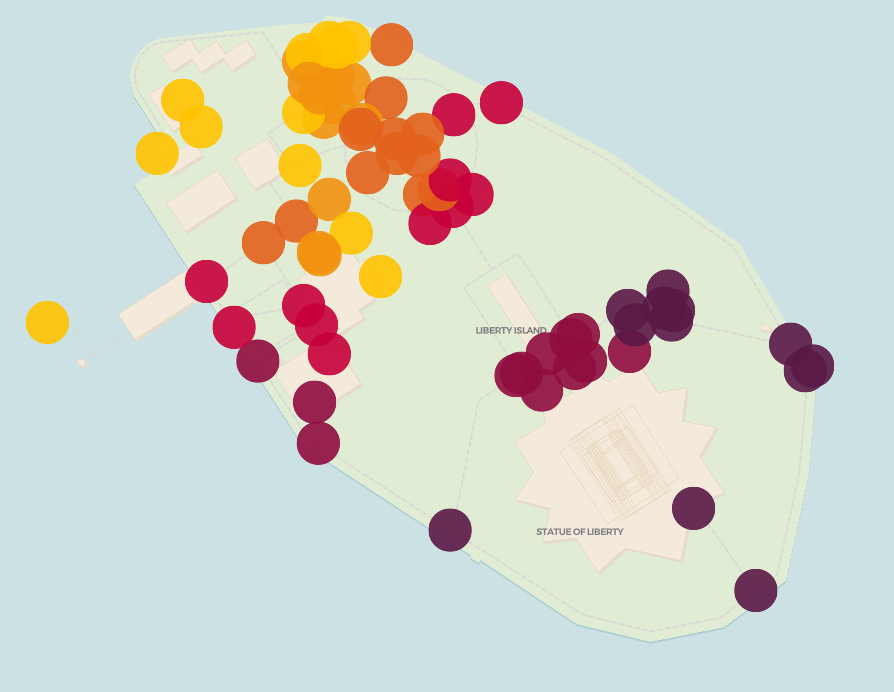
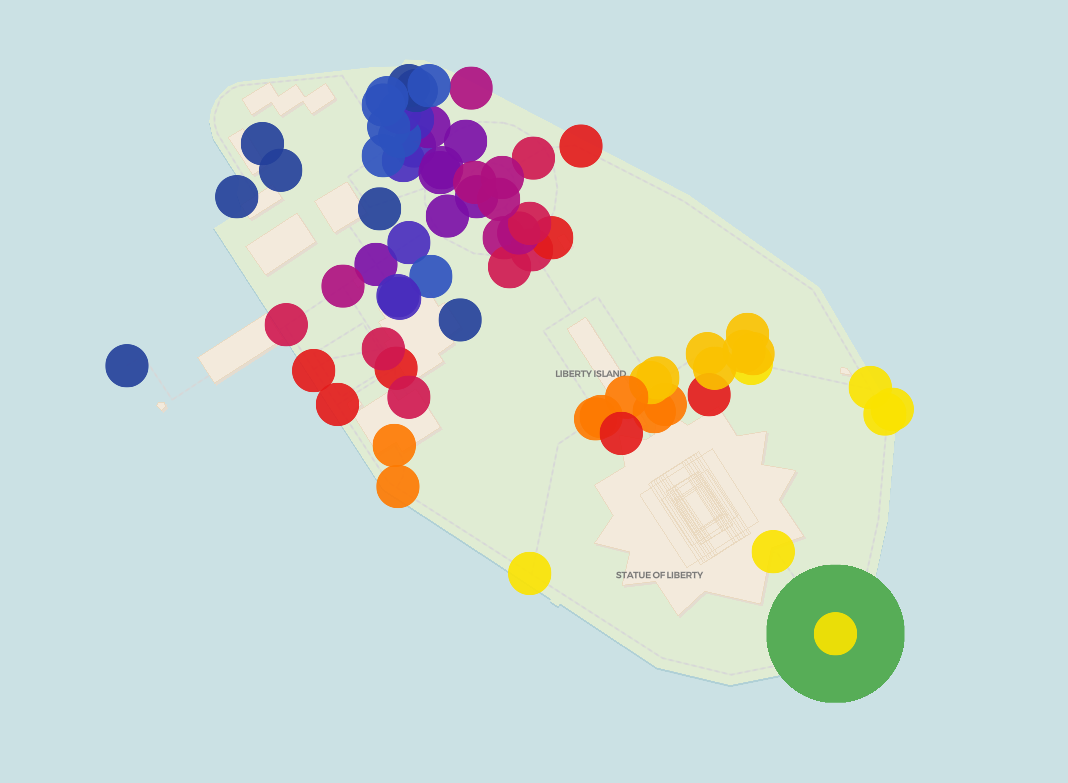
fix routing doc

diff --git a/app/content/spatial-extension-bq/guides/routing.md b/app/content/spatial-extension-bq/guides/routing.md
@@ -9,7 +9,8 @@ Carefull this query scan a lot of data. You may skip this query by creating dire
 
 
 ```sql
-CREATE TABLE mydataset.liberty_island_linestrings AS
+CREATE TABLE
+  mydataset.liberty_island_linestrings AS
 SELECT
   geometry,
   all_tags
@@ -21,8 +22,7 @@ WHERE
   key = 'highway'
   AND ST_INTERSECTS(geometry,
     --NY Liberty Island Bounding Box:
-    ST_GEOGFROMGEOJSON("""{"type": "Polygon","coordinates": [[[-74.049031, 40.687619], [-74.041713, 40.687619], [-74.041713, 40.692158], [-74.049031, 40.692158], [-74.049031, 40.687619] ]]}""") )
-``` 
+    ST_GEOGFROMGEOJSON("""{"type": "Polygon","coordinates": [[[-74.049031, 40.687619], [-74.041713, 40.687619], [-74.041713, 40.692158], [-74.049031, 40.692158], [-74.049031, 40.687619] ]]}""") )``` 
 
 #### Creating the network from linestrings
 
@@ -37,17 +37,19 @@ CALL `bqcarto.routing.GENERATE_NETWORK_TABLE`('mydataset.liberty_island_linestri
 Or you can go the hard way using a function.
 
 ```sql
-    CREATE OR REPLACE TABLE `mydataset.liberty_island_network`
-      AS
-        WITH T as(
-            SELECT
-              `bqcarto.routing.GENERATE_NETWORK`(ARRAY_AGG(geometry)) generate_network
-            FROM
-              `mydataset.my_test_linestrings`
-                  )
-      SELECT myunnest.*
-      FROM T,
-      unnest(generate_network) myunnest
+CREATE OR REPLACE TABLE
+  `mydataset.liberty_island_network` AS
+WITH
+  T AS(
+  SELECT
+    `bqcarto.routing.GENERATE_NETWORK`(ARRAY_AGG(geometry)) generate_network
+  FROM
+    `mydataset.my_test_linestrings` )
+SELECT
+  myunnest.*
+FROM
+  T,
+  UNNEST(generate_network) myunnest
 ```
 
 #### Visualising the network
@@ -60,7 +62,6 @@ SELECT
 UNION ALL
 SELECT
     ST_MAKELINE(src_geo, dest_geo) line, 1 compacted FROM `mydataset.liberty_island_network`
-);
 ```
 
 
@@ -74,11 +75,10 @@ Again we have created a procedure for that:
 
 ```sql
 CALL
-  `bqcarto.routing.FIND_SHORTEST_PATH_FROM_NETWORK_TABLE`(
-      "mydataset.liberty_island_network","mydataset.my_shortest_path",
-      "ST_geogpoint(-74.04665, 40.68983)",
-      "ST_geogpoint(-74.0438, 40.68874)"
-      )
+  `bqcarto.routing.FIND_SHORTEST_PATH_FROM_NETWORK_TABLE`( "mydataset.liberty_island_network",
+    "mydataset.my_shortest_path",
+    "ST_geogpoint(-74.04665, 40.68983)",
+    "ST_geogpoint(-74.0438, 40.68874)" )
 ```
 
 #### Using a function
@@ -86,16 +86,20 @@ CALL
 And again, you can choose to go the hard way using a function.
 
 ```sql
-        WITH T as(
-            SELECT
-              `bqcarto.routing.FIND_SHORTEST_PATH_FROM_NETWORK`(ARRAY_AGG(flatten_links),
-                ST_geogpoint(-74.04665, 40.68983),
-                ST_geogpoint(-74.0438, 40.68874)) myroutes
-            FROM
-              `mydataset.liberty_island_network` flatten_links
-              )
-      SELECT myroutes.*
-      from T
+WITH
+  T AS(
+  SELECT
+    `bqcarto.routing.FIND_SHORTEST_PATH_FROM_NETWORK`(ARRAY_AGG(flatten_links),
+      ST_geogpoint(-74.04665,
+        40.68983),
+      ST_geogpoint(-74.0438,
+        40.68874)) myroutes
+  FROM
+    `mydataset.liberty_island_network` flatten_links )
+SELECT
+  myroutes.*
+FROM
+  T
 ```
 
 #### Visualising the shortest path
@@ -112,11 +116,9 @@ Again we have created a procedure for that:
 
 ```sql
 CALL
-  `bqcarto.routing.DISTANCE_MAP_FROM_NETWORK_TABLE`(
-      "mydataset.liberty_island_network",
-      "mydataset.my_distance_map",
-      "ST_geogpoint(-74.0438, 40.68874)"
-      )
+  `bqcarto.routing.DISTANCE_MAP_FROM_NETWORK_TABLE`( "mydataset.liberty_island_network",
+    "mydataset.my_distance_map",
+    "ST_geogpoint(-74.0438, 40.68874)" )
 ```
 
 #### Using a function
@@ -124,19 +126,23 @@ CALL
 And again, you can choose to go the hard way using a function.
 
 ```sql
-        WITH T as(
-            SELECT
-              `bqcarto.routing.DISTANCE_MAP_FROM_NETWORK`(ARRAY_AGG(flatten_links),
-                ST_geogpoint(-74.0438, 40.68874)) distance_map
-            FROM
-              `mydataset.liberty_island_network` flatten_links
-              )
-      SELECT myunnest.*
-      from T,
-      unnest(distance_map) myunnest
+WITH
+  T AS(
+  SELECT
+    `bqcarto.routing.DISTANCE_MAP_FROM_NETWORK`(ARRAY_AGG(flatten_links),
+      ST_geogpoint(-74.0438,
+        40.68874)) distance_map
+  FROM
+    `mydataset.liberty_island_network` flatten_links )
+SELECT
+  myunnest.*
+FROM
+  T,
+  UNNEST(distance_map) myunnest
 ```
 
 #### Visualising the distance map
+The point of origin is in green, the other are colored based on the length of the shortest path to the origin.
 ![distance map visualization](/img/bq-spatial-extension/routing/distance_map.png)
 
 
